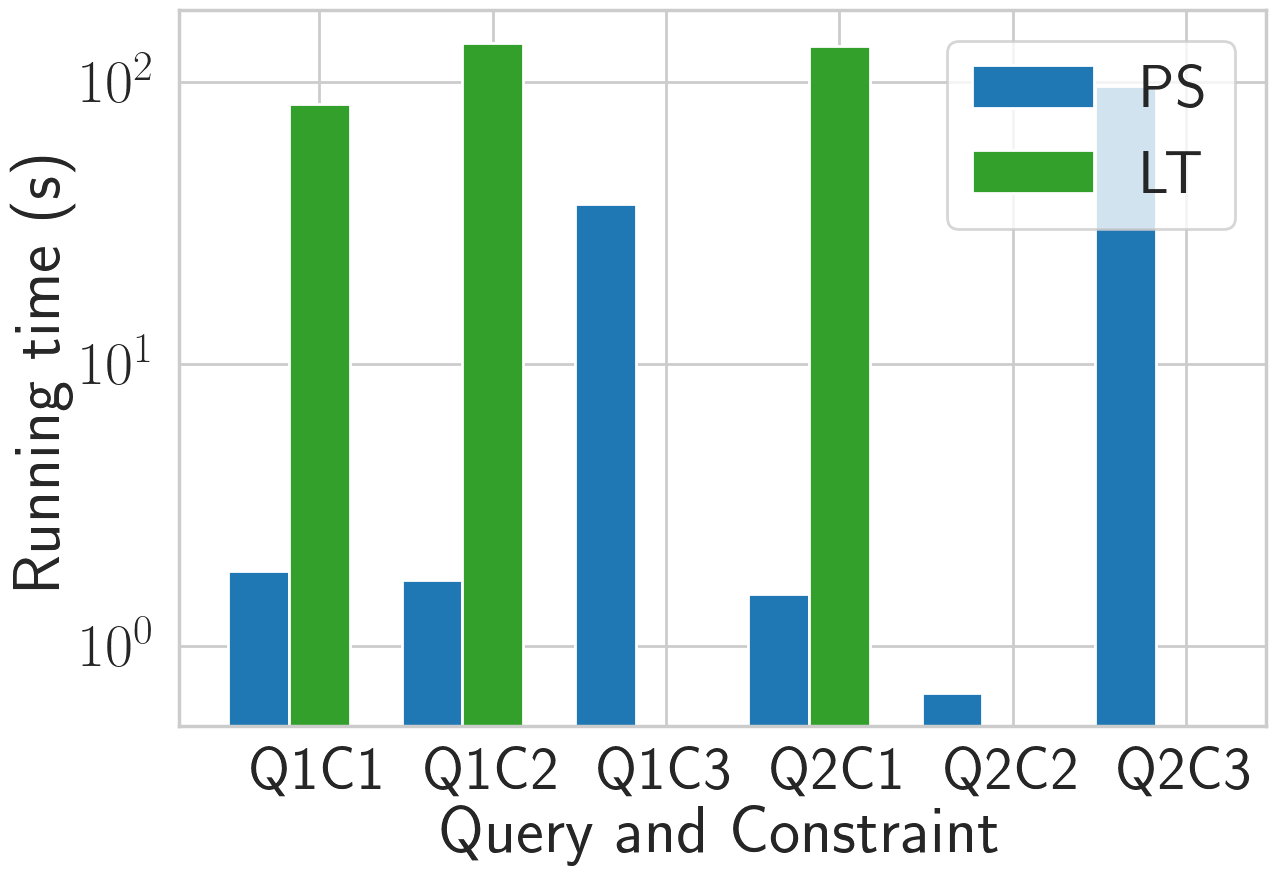
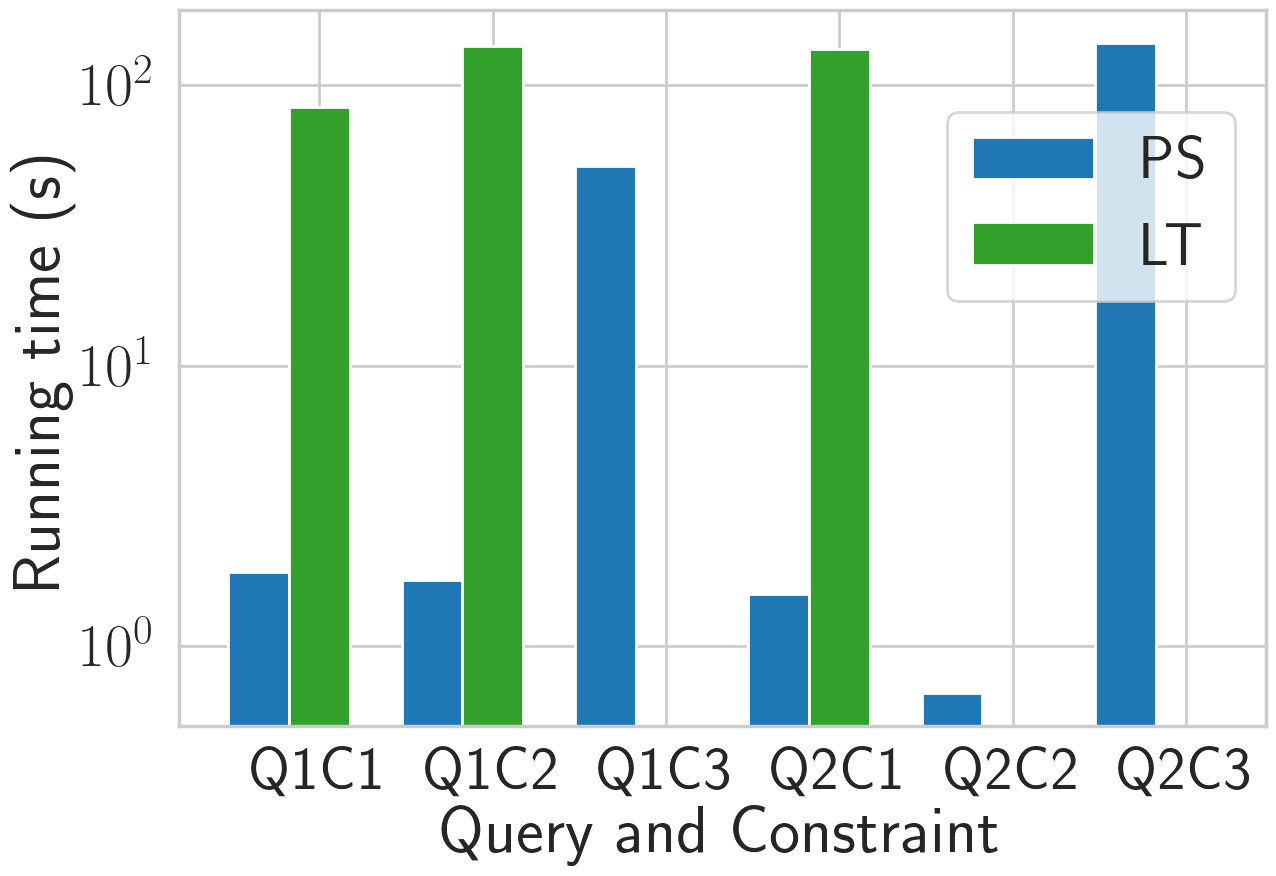
healthcare running time

diff --git a/Experiment/healthcare/exp_1_runningtime/running_time_0.py b/Experiment/healthcare/exp_1_runningtime/running_time_0.py
@@ -15,14 +15,13 @@ from Algorithm import ProvenanceSearchValues_4_20220712 as ps
 from Algorithm import LatticeTraversal_2_2022405 as lt
 
 data_file = r"../../../InputData/Healthcare/incomeK/before_selection_incomeK.csv"
-query_file_prefix = r"../../../InputData/Healthcare/incomeK/query"
-constraint_file_prefix = r"../../../InputData/Healthcare/incomeK/constraint"
-
+query_file_prefix = r"query"
+constraint_file_prefix = r"constraint"
 time_output_prefix = r"./result_"
 
 
 def file(q, c):
-    time_output_file = time_output_prefix + str(q) + str(c) + ".csv"
+    time_output_file = time_output_prefix + str(q) + str(c) + "1.csv"
     time_output = open(time_output_file, "w")
     time_output.write("selection file, running time ps, running time lt\n")
     return time_output
@@ -66,7 +65,7 @@ def compare(q, c, time_output):
     else:
         summary_file.write("\n")
 
-summary_file = open(r"time.csv", "w")
+summary_file = open(r"time1.csv", "w")
 summary_file.write("file,PS,LT\n")
 
 
@@ -76,10 +75,10 @@ def run(q, c):
     time_output.close()
 
 
-run(1, 1)
-run(1, 2)
+# run(1, 1)
+# run(1, 2)
 run(1, 3)
-run(2, 1)
-run(2, 2)
+# run(2, 1)
+# run(2, 2)
 run(2, 3)
 

diff --git a/Experiment/healthcare/exp_1_runningtime/fig.py b/Experiment/healthcare/exp_1_runningtime/fig.py
@@ -64,7 +64,7 @@ plt.xticks(index + bar_width, x_list)
 plt.xlabel('Query and Constraint')
 plt.ylabel('Running time (s)')
 plt.yscale('log')
-plt.legend(loc='best')
+plt.legend(loc='upper right', bbox_to_anchor=(1, 0.9))
 
 plt.tight_layout()
 plt.savefig("healthcare_time.png", bbox_inches='tight')
